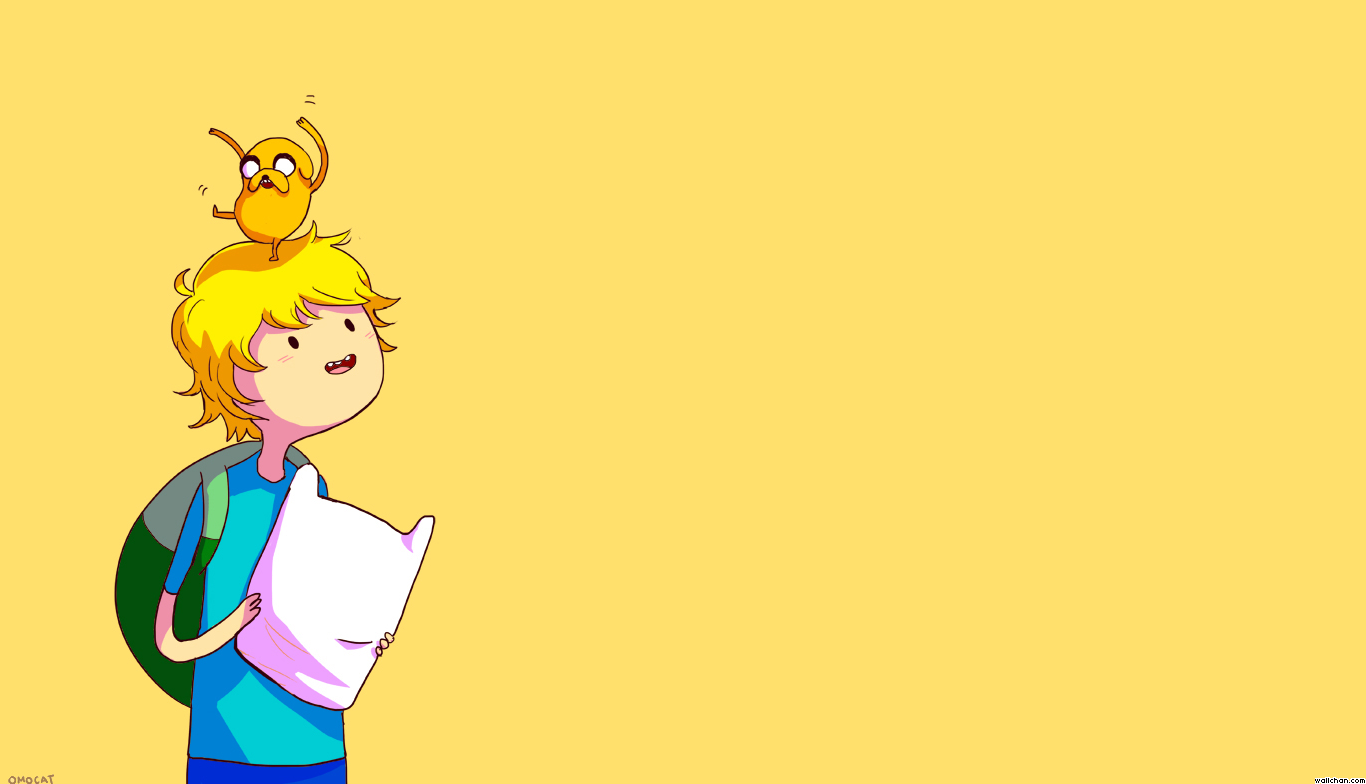
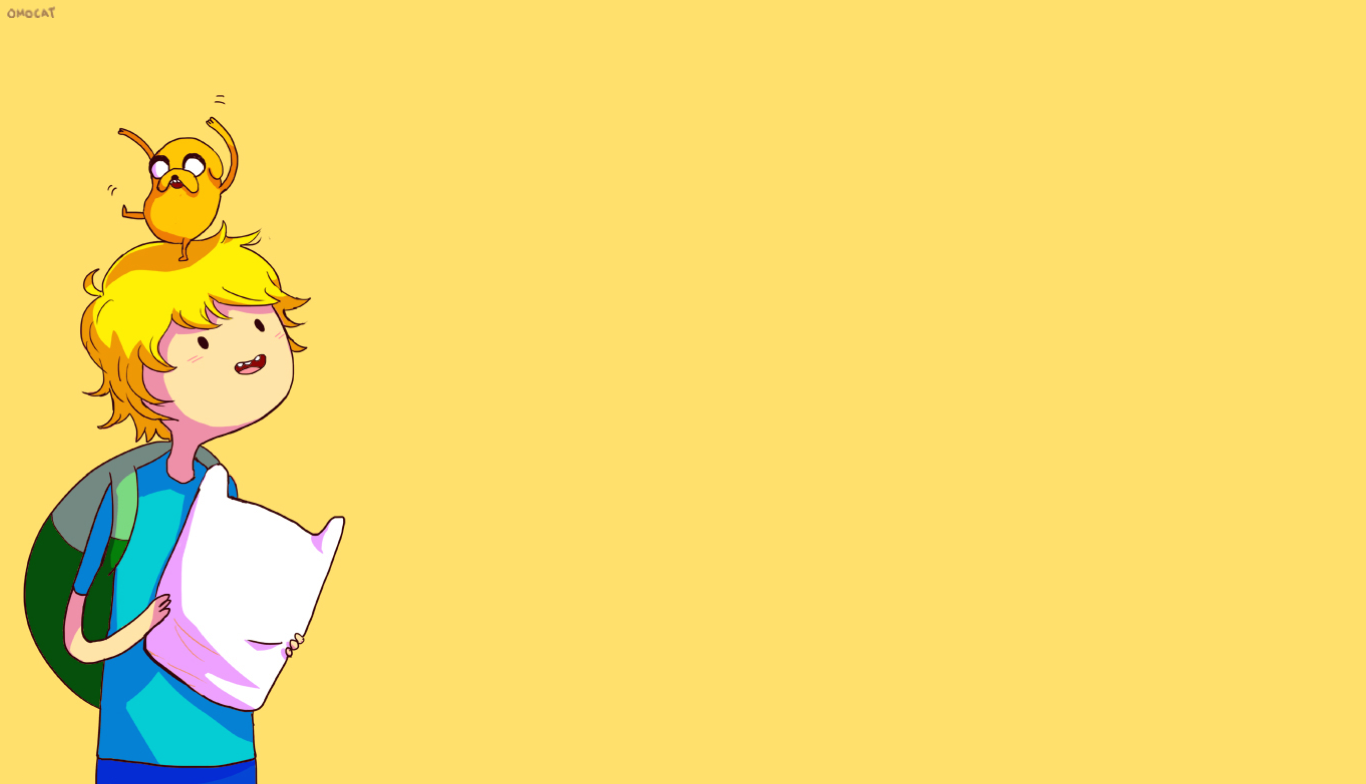
Styled background on particles page better

diff --git a/_includes/css/style.css b/_includes/css/style.css
@@ -2,11 +2,11 @@
   text-align: center;
   color: #fff;
   background-attachment: scroll;
-  background-image: url(./img/portfolio/finn-and-jake.png);
-  background-position: center center;
+  background-image: url(../img/portfolio/finn-and-jake-background.png);
+  background-position: top;
   background-repeat: none;
-  -webkit-background-size: cover;
-  -moz-background-size: cover;
-  background-size: cover;
-  -o-background-size: cover;
+  /*-webkit-background-size: cover;*/
+  /*-moz-background-size: cover;*/
+  /*background-size: cover;*/
+  /*-o-background-size: cover;*/
 }

diff --git a/particles.html b/particles.html
@@ -8,8 +8,8 @@
     <script type='text/javascript' src="/js/particles.js"></script>
     <script type='text/javascript' src="/js/underscore-min.js"></script>
   </head>
-  <body>
-    <div class="bg-finn-and-jake">
+  <body class="bg-finn-and-jake">
+    <div style="margin-top: 50px;">
       <canvas id="canvas" width="700" height="400" 
               style="border:1px solid #000000;background-color: #000000">
       </canvas>
